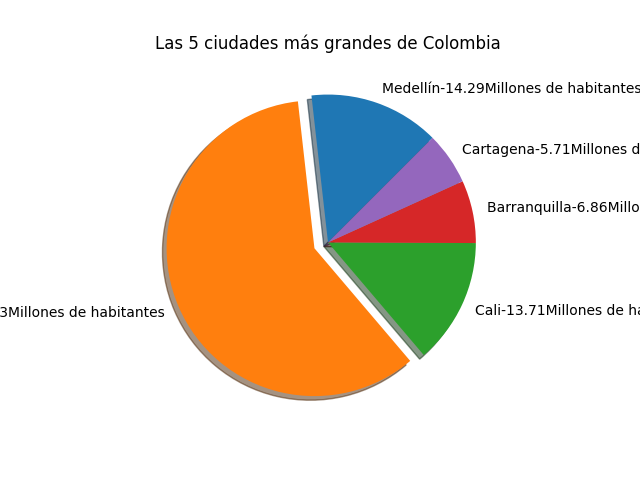
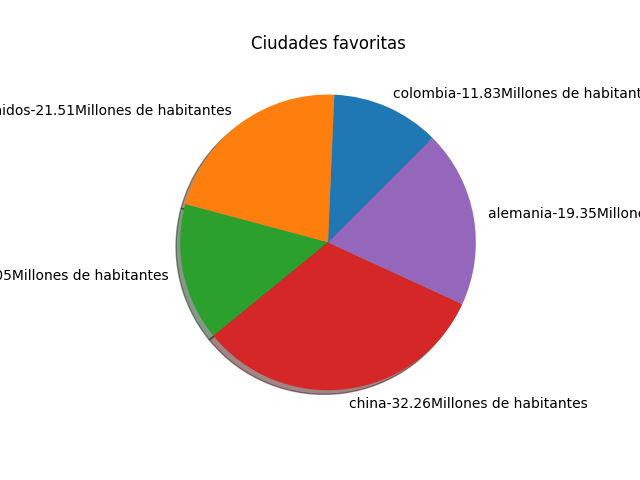
f

diff --git a/examenes/quizGraficas/punto2.py b/examenes/quizGraficas/punto2.py
@@ -6,9 +6,17 @@
 # en un archivo png)
 
 import matplotlib.pyplot as plt 
-pieLabels = ['Medellín', 'Bogota', 'Cali', 'Barranquilla', 'Cartagena']
-sizes = [2.5 ,10.4, 2.4, 1.2, 1] #tamaño de las porciones
-pieExplode = [0, 0.1, 0, 0, 0] #alejamineto del origen
+PREGUNTA_CIUDADES_FAV = 'Ingrese su ciudad fav del mundo: '
+PREGUNTA_POBLACION = 'Ingrese el número de población: '
+pieLabels = []
+sizes = []
+for i in range (5):
+    ciudad = input(PREGUNTA_CIUDADES_FAV)
+    pieLabels.append(ciudad)
+    poblacioon = float(input(PREGUNTA_POBLACION))
+    sizes.append(poblacioon)
+
+pieExplode = [0, 0, 0, 0, 0] #alejamineto del origen
 
 def etiquetarElementosPorcentuales(sizes, labels, indicador= ' ->'):
     acumulador = 0
@@ -21,6 +29,6 @@ def etiquetarElementosPorcentuales(sizes, labels, indicador= ' ->'):
 etiquetarElementosPorcentuales(sizes, pieLabels, '-')
 
 plt.pie(sizes,labels=pieLabels, explode=pieExplode, shadow= True, counterclock = True, startangle= 45)
-plt.title('Las 5 ciudades más grandes de Colombia')
+plt.title('Ciudades favoritas')
 plt.savefig('GraficoTortaCiudades.png')
 plt.show()
